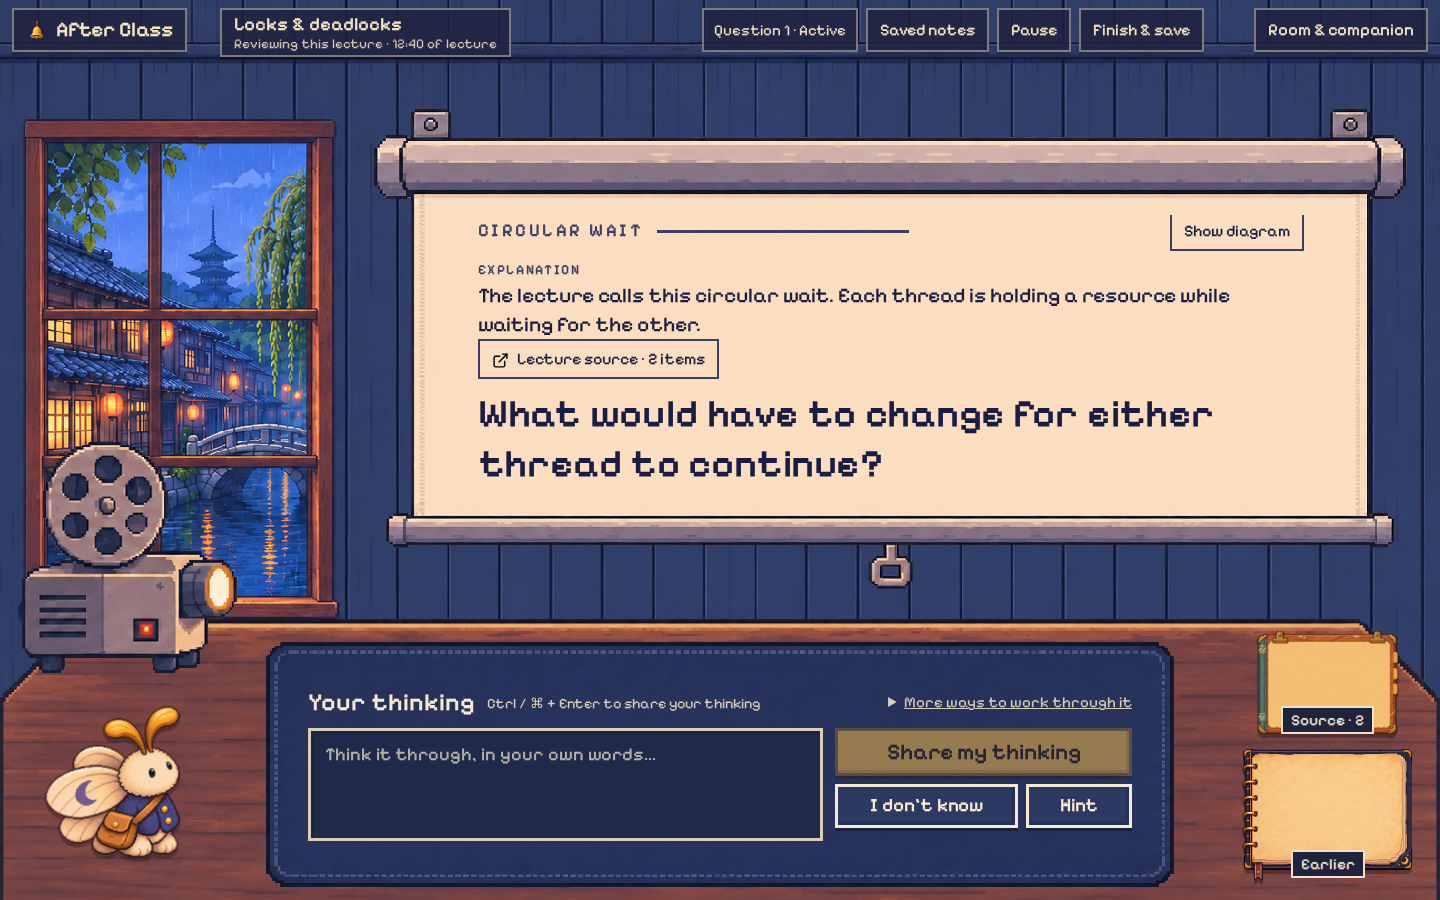
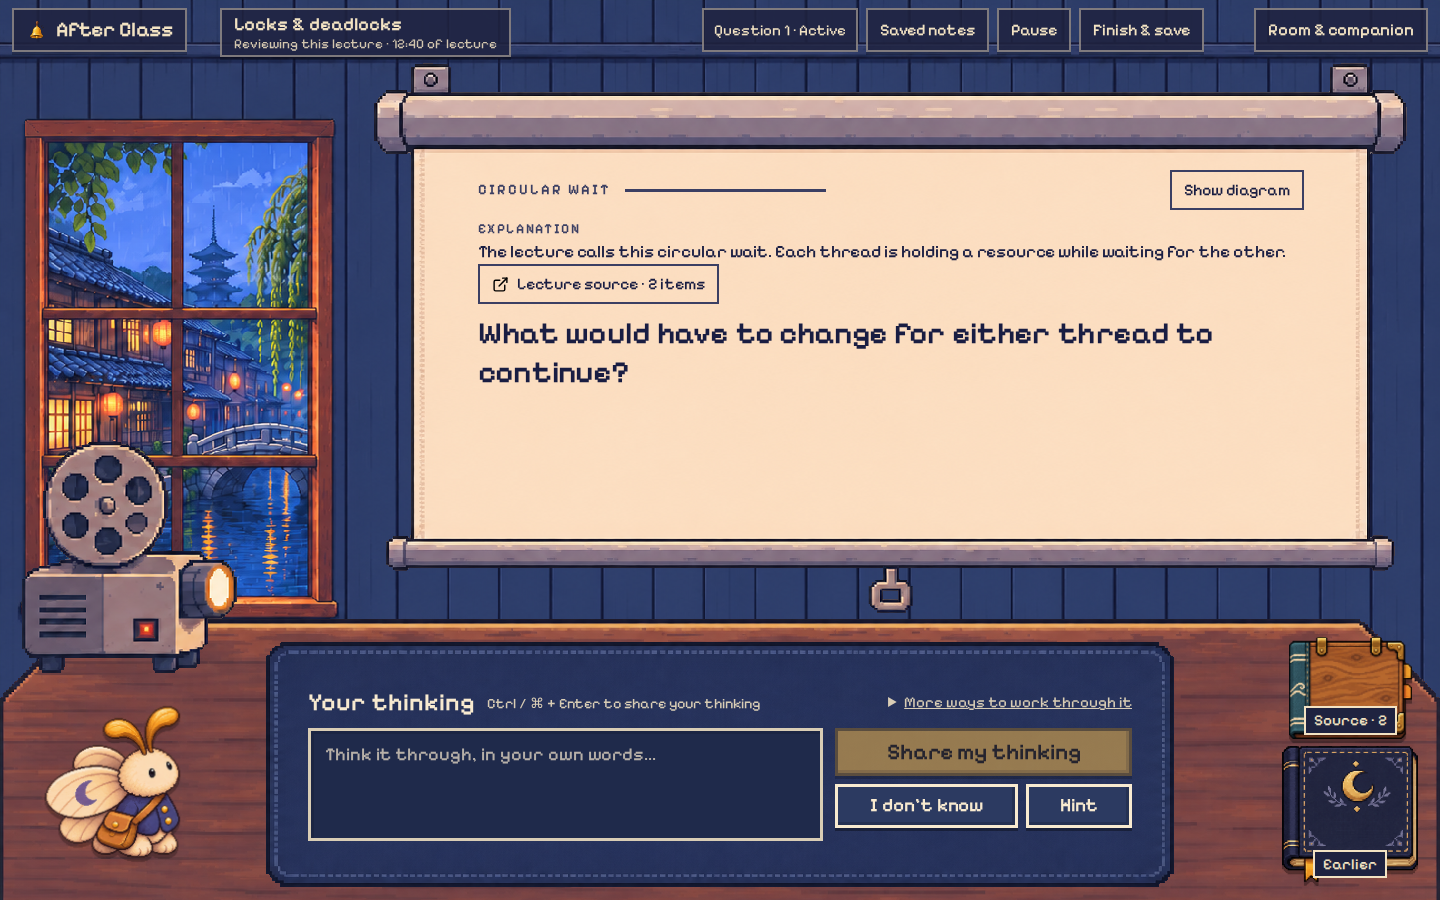
fix(app): fit the canal screen, centre its window and close the desk objects
Derek's review of the layered rooms found three problems. The canal screen's text area was about 260 pixels tall at 1920x1080, so the topic heading scrolled away and left the bottom border of Show diagram as a stray line. The canal window's one mullion sat left of the glass's centre. Source and Earlier drew the open frames, so they looked like blank cards.

- The canal screen starts at 7% of the window height and ends 52u above the desk, which gives its text area 343, 561 and 346 pixels at 1440x900, 1470x1270 and 1920x1080. Board type now follows `--fr-u` instead of the window width.
- The canal background is regenerated with Codex's image tool so the mullion is centred. Provenance records the prompt and original.
- The desk buttons draw two new closed-object sprites, a closed navy notebook with the brass moon and a closed lecture folio, in all three rooms. The open frames stay the dialog art.

Verification: `bun run typecheck`, `bun run lint`, `bun test` (1618 pass) and `bun run test:browser` (25 pass) succeed. The browser spec now also checks that the board does not scroll and that the heading, Show diagram and question lie inside it. App screenshots are retaken.

diff --git a/src/app/front-row.css b/src/app/front-row.css
@@ -158,8 +158,8 @@
 /* The folio and the notebook on the desk. The whole object is the button; it lifts when pointed at or focused. */
 .scene-shell .front-row-scene .front-row-object { position: relative; display: flex; flex-direction: column; align-items: center; justify-content: flex-end; min-width: 44px; min-height: 44px; margin: 0; padding: 0 0 4px; border: 0; border-radius: 0; background: transparent; box-shadow: none; cursor: pointer; }
 .front-row-object .front-row-object-art { position: absolute; inset: 0; background: var(--fr-object-art) 50% 100% / contain no-repeat; filter: drop-shadow(0 4px 0 #00000052); transition: translate 120ms ease-out, filter 120ms ease-out; }
-.front-row-object[data-object="source"] { --fr-object-art: url('./assets/room-objects/source-folio.png'); }
-.front-row-object[data-object="history"] { --fr-object-art: url('./assets/room-objects/review-notebook.png'); }
+.front-row-object[data-object="source"] { --fr-object-art: url('./assets/front-row-v2/closed-folio.png'); }
+.front-row-object[data-object="history"] { --fr-object-art: url('./assets/front-row-v2/closed-notebook.png'); }
 .front-row-object .front-row-object-tag { position: relative; padding: 3px 8px; background: var(--fr-bar); color: var(--fr-bar-ink); border: 2px solid var(--fr-bar-ink); font: 500 .95rem/1.2 'After Class Pixel', var(--font); white-space: nowrap; }
 .front-row-object:is(:hover, :focus-visible) .front-row-object-art { translate: 0 -4px; filter: drop-shadow(0 8px 0 #00000052) brightness(1.08); }
 .front-row-object:is(:hover, :focus-visible) .front-row-object-tag { background: var(--fr-bar-ink); color: var(--fr-bar); }
@@ -290,6 +290,10 @@
   /* The board's text starts below the navigation where the board's own top would sit under it. */
   .front-row-scene :is(.front-row-area[data-area="board"], .setup-choices) { position: absolute; z-index: 4; left: calc(var(--fr-board-l) + var(--fr-board-il)); width: calc(var(--fr-board-w) - var(--fr-board-il) - var(--fr-board-ir)); top: max(calc(var(--fr-board-top) + var(--fr-board-it)), var(--fr-nav-reserve)); bottom: calc(100% - var(--fr-board-top) - var(--fr-board-h) + var(--fr-board-ib)); overflow: auto; overscroll-behavior: contain; }
   .front-row-scene :is(.front-row-area[data-area="desk"], .setup-start) { position: absolute; z-index: 7; left: calc(var(--fr-mat-l) + var(--fr-mat-il)); width: calc(var(--fr-mat-w) - var(--fr-mat-il) - var(--fr-mat-ir)); top: calc(var(--fr-desk-top) + var(--fr-mat-top) + var(--fr-mat-it)); bottom: calc(var(--fr-mat-bottom) + var(--fr-mat-ib)); overflow: auto; overscroll-behavior: contain; }
+  /* Board type follows the room scale, so the text keeps its share of the board when the window is wide or tall. */
+  .front-row-scene .front-row-eyebrow { font-size: clamp(.9rem, calc(var(--fr-u) * 15), 1.2rem); }
+  .scene-shell .front-row-scene .current-exchange .line p { font-size: clamp(1.05rem, calc(var(--fr-u) * 19), 1.35rem); }
+  .scene-shell .front-row-scene .current-exchange .line[data-question] p { font-size: clamp(1.4rem, calc(var(--fr-u) * 34), 2.7rem); }
   .front-row-scene[data-board-align="center"] .front-row-area[data-area="board"] { display: flex; flex-direction: column; justify-content: safe center; }
   /* The field takes the height the mat has left once the label and buttons are placed. */
   .front-row-scene .front-row-area[data-area="desk"] > .composer { height: 100%; }
@@ -298,10 +302,10 @@
   .scene-shell .front-row-scene .composer textarea { height: 100%; }
   .front-row-scene[data-mat-actions="beside"] .composer .assist-actions > * { flex: 1 1 auto; white-space: nowrap; }
   .front-row-scene .front-row-buddy { position: absolute; z-index: 8; left: var(--fr-side-inset); bottom: var(--fr-buddy-bottom); width: var(--fr-buddy-size); height: var(--fr-buddy-size); }
-  /* The notebook sits on the desk at the far right, and the folio just above it at 80% of its width. Each is its own raster. */
+  /* The closed notebook lies on the desk at the far right, and the closed folio just above it at 90% of its width. Each is its own raster. */
   .scene-shell .front-row-scene .front-row-object { position: absolute; z-index: 8; }
   .front-row-scene .front-row-object[data-object="history"] { right: var(--fr-side-inset); bottom: var(--fr-book-bottom); width: var(--fr-book-w); height: var(--fr-book-h); }
-  .front-row-scene .front-row-object[data-object="source"] { right: calc(var(--fr-side-inset) + var(--fr-book-w) * .1); bottom: calc(var(--fr-book-bottom) + var(--fr-book-h) + var(--fr-u) * 8); width: calc(var(--fr-book-w) * .8); aspect-ratio: 1448 / 1086; }
+  .front-row-scene .front-row-object[data-object="source"] { right: calc(var(--fr-side-inset) + var(--fr-book-w) * .05); bottom: calc(var(--fr-book-bottom) + var(--fr-book-h) + var(--fr-u) * 8); width: calc(var(--fr-book-w) * .9); aspect-ratio: 1180 / 976; }
 }
 
 /* Mid-width windows: the review's navigation takes a second row under the masthead chips. */

diff --git a/src/app/front-row.tsx b/src/app/front-row.tsx
@@ -104,7 +104,7 @@ export const ROOM_ART = {
   matTop: 26,
   matBottom: 14,
   companionSize: 220,
-  notebook: { bottom: 20, width: 200 },
+  notebook: { bottom: 20, width: 150 },
   /** Distance of the companion and the notebook from the window's side edges. */
   sideInset: "1.5cqw",
   /** Space kept between a text area and the edge of the plain area it sits in. */
@@ -180,7 +180,7 @@ export const FRONT_ROW_ROOMS = {
     background: { anchorX: 0, anchorY: 0.22, wall: { from: 376, to: 1586 } },
     board: {
       art: { size: { width: 2926, height: 1646 }, slice: { top: 208, right: 200, bottom: 100, left: 200 }, inner: { top: 208, right: 200, bottom: 100, left: 200 } },
-      align: "start", top: "12cqh", gapAboveDesk: 78, sideMargin: 36, maxAspect: 2.7, minAspect: 1.3,
+      align: "start", top: "7cqh", gapAboveDesk: 52, sideMargin: 36, maxAspect: 2.7, minAspect: 1.3,
       tone: "light", fill: "#fbe1c5", ink: "#191d42", inkSoft: "#3b3f63",
     },
     desk: { art: { size: { width: 4344, height: 820 }, slice: { top: 0, right: 220, bottom: 0, left: 220 } } },
@@ -233,7 +233,7 @@ export function roomStyle(scene: SceneId): CSSProperties {
     "--fr-mat-top": u(ROOM_ART.matTop), "--fr-mat-bottom": u(ROOM_ART.matBottom),
     "--fr-side-inset": ROOM_ART.sideInset,
     "--fr-buddy-bottom": u(room.companionBottom), "--fr-buddy-size": u(ROOM_ART.companionSize),
-    "--fr-book-bottom": u(ROOM_ART.notebook.bottom), "--fr-book-w": u(ROOM_ART.notebook.width), "--fr-book-h": u(ROOM_ART.notebook.width * 0.75),
+    "--fr-book-bottom": u(ROOM_ART.notebook.bottom), "--fr-book-w": u(ROOM_ART.notebook.width), "--fr-book-h": u(ROOM_ART.notebook.width * 1028 / 1030),
     "--fr-board-fill": board.fill, "--fr-board-ink": board.ink, "--fr-board-ink-soft": board.inkSoft,
     "--fr-mat-fill": mat.fill, "--fr-mat-ink": mat.ink, "--fr-mat-ink-soft": mat.inkSoft,
     ...nineSlice("board", board.art), ...nineSlice("desk", desk.art), ...nineSlice("mat", mat.art),

diff --git a/e2e/front-row-layers.spec.ts b/e2e/front-row-layers.spec.ts
@@ -25,6 +25,8 @@ for (const scene of Object.keys(SCENES)) {
         const navigation = [...document.querySelectorAll(".scene-masthead > *, .front-row-bar > *, .front-row-bar .review-navigation > *")].map(box).filter((b) => b.right > b.left && b.bottom > b.top);
         return {
           boardArt: one('.front-row-art [data-layer="board"]'), boardText: one('.front-row-area[data-area="board"]'),
+          heading: one(".front-row-heading"), showDiagram: one(".front-row-heading .show-diagram"), question: one(".current-exchange .line[data-question]"),
+          overflow: (({ scrollHeight, clientHeight }) => scrollHeight - clientHeight)(document.querySelector('.front-row-area[data-area="board"]')!),
           matArt: one('.front-row-art [data-layer="mat"]'), deskText: one('.front-row-area[data-area="desk"]'), field: one(".composer textarea"),
           buddy: one(".front-row-buddy"), notebook: one('.front-row-object[data-object="history"]'), folio: one('.front-row-object[data-object="source"]'),
           desk: one('.front-row-art [data-layer="desk"]'), navigation, window: { left: 0, top: 0, right: innerWidth, bottom: innerHeight },
@@ -32,6 +34,8 @@ for (const scene of Object.keys(SCENES)) {
       });
       expect(boxes.navigation.length).toBeGreaterThan(3);
       expect(within(boxes.boardText, boxes.boardArt)).toBe(true);
+      expect(boxes.overflow).toBeLessThanOrEqual(1);
+      for (const part of [boxes.heading, boxes.showDiagram, boxes.question]) expect(within(part, boxes.boardText)).toBe(true);
       expect(within(boxes.deskText, boxes.matArt)).toBe(true);
       expect(within(boxes.field, boxes.deskText)).toBe(true);
       for (const [name, b] of Object.entries({ boardText: boxes.boardText, field: boxes.field, buddy: boxes.buddy, notebook: boxes.notebook, folio: boxes.folio })) {

diff --git a/test/front-row.test.tsx b/test/front-row.test.tsx
@@ -1,4 +1,5 @@
 import { describe, expect, test } from "bun:test";
+import { readFileSync } from "node:fs";
 import { renderToStaticMarkup } from "react-dom/server";
 import { COMPANIONS, SCENES, parseAppearance } from "../src/app/appearance";
 import type { CompanionId, SceneId } from "../src/app/appearance";
@@ -191,6 +192,20 @@ describe("the folio and the notebook are the supplied art, and their pages read 
     let diff = 0;
     for (let x = 0; x < slice.left; x++) for (let c = 0; c < 3; c++) diff += Math.abs(pixel(png, x, slice.top)[c]! - pixel(png, x, end)[c]!);
     expect(diff / (slice.left * 3)).toBeLessThan(12);
+  });
+});
+
+describe("the objects on the desk are closed", () => {
+  const sprites = { source: "closed-folio", history: "closed-notebook" } as const;
+  const css = readFileSync(new URL("../src/app/front-row.css", import.meta.url), "utf8");
+
+  test("each desk object draws a closed-object sprite with transparent corners, never the open frame", () => {
+    for (const [object, name] of Object.entries(sprites)) {
+      const png = readPng(new URL(`../src/app/assets/front-row-v2/${name}.png`, import.meta.url));
+      expect({ object, alpha: png.alpha, width: png.width > 500 && png.width < 2000 }).toEqual({ object, alpha: true, width: true });
+      for (const [x, y] of [[0, 0], [png.width - 1, 0], [0, png.height - 1], [png.width - 1, png.height - 1]] as const) expect({ object, x, y, alpha: png.rgba[(y * png.width + x) * 4 + 3] }).toEqual({ object, x, y, alpha: 0 });
+      expect(css).toContain(`.front-row-object[data-object="${object}"] { --fr-object-art: url('./assets/front-row-v2/${name}.png'); }`);
+    }
   });
 });
 

diff --git a/docs/design/front-row/rooms-v2/provenance.md b/docs/design/front-row/rooms-v2/provenance.md
@@ -478,3 +478,52 @@ The mat is completely BLANK: no writing, no marks, no logo, no pattern, no folds
 
 No text, no letters, no numbers, no signs with writing, no UI, no people, no animals, no characters.
 ````
+
+## Fixes after review (2026-11-13)
+
+Derek found the canal window's lattice off centre and the desk's Source and Earlier objects blank. Two more runs were made with the same `codex exec` command as above, from a scratch folder, at most two at a time. Both are used. The processing is the same as the edits listed at the top: nearest-neighbour 2x, binary alpha, specks under 40 pixels dropped, crop to the opaque bounding box. No pixel was repainted or recoloured.
+
+### canal-background-2
+
+- Why: the first canal background had its one vertical mullion left of the glass's centre (about 215 of a 65 to 435 glass at 2000 px wide), so the two panes differed in width.
+- References attached: `src/app/assets/front-row/projection-booth.png` and the previous background at 1586x992.
+- Original: `~/.codex/generated_images/01a1d61c-81e5-7d70-a9d4-8d891988dc9e/exec-f10ba36c-88b1-48a4-9c9d-dad0cd9f4b1e.png` (1586x992)
+- Used for `canal-background.png` (3172x1984): not cropped, then doubled. It replaces the file in `src/app/assets/front-row-v2/` too.
+- Result: the mullion is now at the glass's horizontal centre, and the window sits at the same place, so the manifest's window feature, safe area and wall span are unchanged. The two transoms are still not exact thirds, with rows of about 190, 162 and 150 plate pixels, the same unevenness as before.
+
+Prompt, as sent:
+
+````
+Use your built-in image generation tool (not code, not SVG, not a script) to generate ONE image. Attached: `reference.png` (the old canal film club plate, for palette and style) and `current-1x.png` (the current background, which is nearly right). Save the generated PNG unchanged as `canal-background.png` in the current folder. Do not draw or edit anything with code. In your final message give the saved path, the original path of the generated file, and the image's pixel size.
+
+Image prompt:
+
+Redraw `current-1x.png` almost exactly: the same empty front wall of a small canal-side film club room on a rainy evening, landscape 16:10, at the largest size available, flat orthographic head-on elevation. Same navy vertical wall panels, same picture rail across the top, same dark wainscot band along the bottom, same window position (left side, its frame spanning about 2% to 23% of the width and 13% to 69% of the height), same wooden frame colour and same pixel density and style: detailed 32-bit anime pixel art, crisp chunky pixel clusters, fine dark outlines, no smoothing, not vector, not photoreal. Same view through the glass: a rainy blue dusk over a narrow canal, wooden townhouses with glowing warm windows and red-orange paper lanterns, an arched stone bridge, a distant pagoda, a weeping willow, lantern reflections in the water, fine diagonal rain.
+
+The ONE change: the window must be geometrically regular. It is a plain rectangular wooden frame with a head, two jambs and a sill. Inside it there is exactly ONE vertical mullion, placed EXACTLY at the horizontal centre of the glass, so the left and right panes are the same width. There are exactly TWO horizontal transoms, placed at exactly one third and two thirds of the glass height, so the three rows of panes are the same height. All mullions and transoms are the same thickness, perfectly straight, perfectly vertical or horizontal, crossing at right angles, with the same margin of glass between them and the frame on both sides. The frame is symmetric left to right. No open sash, no tilt, no perspective, no bend.
+
+There is NO chalkboard, NO screen, NO desk, NO furniture, NO notebook and NO top bar. No text, no letters, no numbers, no UI, no people, no characters.
+````
+
+### closed-objects
+
+- Why: the desk buttons drew the open frames `source-folio.png` and `review-notebook.png`, whose centres are blank pages.
+- References attached: `src/app/assets/front-row/last-desk.png` (its closed navy notebook with the brass moon), the two open frames and `rail-ledge-items.png` for density.
+- Original: `~/.codex/generated_images/01a1d61c-81e9-7de3-8eba-a336f148cb48/exec-8c40e0be-540f-47f0-b2e3-eeef93892532.png` (1448x1086, real alpha)
+- Used for `closed-notebook.png` (1028x1030, crop x 70 to 584, y 314 to 829) and `closed-folio.png` (1180x976, crop x 817 to 1407, y 297 to 785), then doubled. Both are in `src/app/assets/front-row-v2/` and are drawn by all three rooms. The open frames stay the dialog art.
+
+Prompt, as sent:
+
+````
+Use your built-in image generation tool (not code, not SVG, not a script) to generate ONE image. Attached: `reference-plate.png` (an old room plate whose bottom right shows a CLOSED navy notebook lying on a desk), `notebook-open.png` and `folio-open.png` (two open-object frames, for palette only) and `style-ref.png` (a small sprite at the target pixel density). Save the generated PNG unchanged as `closed-objects.png` in the current folder. Do not draw or edit anything with code. In your final message give the saved path, the original path of the generated file, the image's pixel size, and whether the background is truly transparent.
+
+Image prompt:
+
+A production game sprite sheet of two small props, isolated on a genuinely transparent background (real alpha, nothing outside the objects' silhouettes, no desk, no scene, no cast shadow). Landscape canvas. The two props are separate, far apart with a wide transparent gap, each fully inside the canvas, both drawn at the same scale. Same style, palette and pixel density as the attached art: detailed 32-bit anime pixel art, crisp chunky pixel clusters, fine dark outlines, no smoothing, not vector, not photoreal. Both lie flat on a surface seen from above and slightly in front, nearly head-on, with no rotation: every edge is straight and level.
+
+Left prop: a CLOSED hardcover notebook, exactly like the closed navy book in the bottom right of `reference-plate.png`: a navy-blue cover with fine stitched border lines, a brass-yellow crescent moon at the upper centre of the cover, a brass-yellow bookmark ribbon hanging from the bottom edge, cream-amber page edges visible along the bottom and right sides, a dark spine on the left. Landscape proportion about 4:3.
+
+Right prop: a CLOSED lecture folio of the same size and proportion, matching `folio-open.png`: a closed wooden-backed folio with a teal cloth spine on the left (with a small cream wave motif), a warm honey-brown wooden cover with a dark outline and wood-grain pixels, two small brass clips near the top, brass corner caps, and two small amber tabs sticking out of the right edge. Its cover is closed, so no parchment page face is visible.
+
+No text, no letters, no numbers, no UI, no people, no characters.
+````

diff --git a/docs/design/front-row/README.md b/docs/design/front-row/README.md
@@ -45,7 +45,7 @@ Behavior:
 
 - One state in `ReviewScreen` owns the held object: `Inspecting = "source" | "history" | null`, from `src/app/room-object.tsx`. Only one object can be open, by construction. The source selection (pinned or following the current reply) and the control to return focus to stay outside that state.
 - Nothing opens by itself. Before this change, a reply that cited evidence opened the source over the question. That effect is gone. The citation buttons under each line, Show diagram and the two objects on the desk open an object only when clicked.
-- Derek then asked: "can we open source and history by clicking the folio and notebook on the desk, instead of using the buttons at the top?" The two top buttons are gone. During a review the `review` variant of `FrontRowLayout` carries `objects: { cited, open }`, and `FrontRowScene` draws two buttons from it. The folio uses `source-folio.png` and sits on the desk just above the notebook, at 80% of the notebook's width. Its tag shows the citation count, for example "Source · 2", and its accessible name is "Open source · 2 cited". The notebook on the desk opens Earlier in this review. It stays on the desk when there is no history yet, and the notebook then shows its empty message. On a phone both objects are thumbnails of their own rasters beside the companion. Each object opens at once on click, Return or Space, lifts on hover and focus, and gets focus back when the object is put down. Before the review starts, neither object is on the desk.
+- Derek then asked: "can we open source and history by clicking the folio and notebook on the desk, instead of using the buttons at the top?" The two top buttons are gone. During a review the `review` variant of `FrontRowLayout` carries `objects: { cited, open }`, and `FrontRowScene` draws two buttons from it. The folio is the closed folio sprite `closed-folio.png`, and the notebook is `closed-notebook.png`, both in `src/app/assets/front-row-v2/`. The folio sits on the desk just above the notebook, at 90% of the notebook's width. Its tag shows the citation count, for example "Source · 2", and its accessible name is "Open source · 2 cited". The notebook on the desk opens Earlier in this review. It stays on the desk when there is no history yet, and the notebook then shows its empty message. On a phone both objects are thumbnails of the same closed sprites beside the companion. Each object opens at once on click, Return or Space, lifts on hover and focus, and gets focus back when the object is put down. Before the review starts, neither object is on the desk.
 - The painted notebook used to open the saved-record My notebook after a 500 ms glance from the companion. That entry is now a "Saved notes" chip in the review navigation, shown in setup and in the review. Its dialog still says Close notebook, and closing it returns focus to Saved notes.
 - `RoomInspector` renders a single native `<dialog>` opened with `showModal()`. Focus moves to the object's heading and stays inside the dialog while it is open. Escape and the close control (Close source or Hide earlier) put the object down and return focus to the control that opened it. If that control is gone, focus goes to the current question. Back to the question puts the object down and focuses the question.
 - The response field and the rest of the scene stay mounted under the dialog, so a draft survives. Opening an object does not scroll the page or move the room, because the dialog sits in the top layer.
